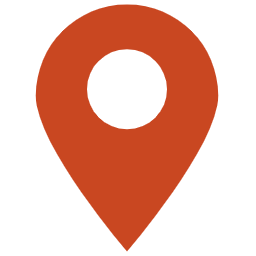
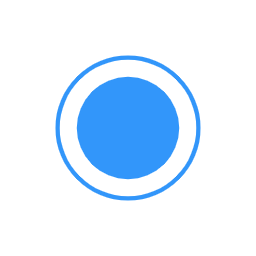
新增实时定位功能， 优化界面

diff --git a/pages/map/map.js b/pages/map/map.js
@@ -2,7 +2,6 @@
 import map from '@data/map';
 import media from '@data/media';
 
-// 引入腾讯地图SDK核心类 
 const QQMapWX = require('@libs/qqmap-wx-jssdk.min');
 const qqmapsdk = new QQMapWX({
   key: map.mapKey, 
@@ -10,62 +9,93 @@ const qqmapsdk = new QQMapWX({
 
 Page({
   data: {
-    // 1. 基础定位：优先读取配置文件中的辽石化坐标， xx
     latitude: map.latitude,
     longitude: map.longitude,
     scale: map.scale,
 
-    // 2. 地标分类属性
     category: 0,
     all_site_data: map.site_data,
     site_data: [],
     Marker3_Activated: media.Marker3_Activated,
 
-    // 3. 单车属性
     bikeIcon: "/images/bike.png", 
     bikeMarkers: [], 
 
-    // 4. 地图显示集合
     markers: [],
     polyline: [],
     
-    // 5. 导航起点与终点
     start: { name: '当前位置', latitude: '', longitude: '' },
     end: { name: '', latitude: '', longitude: '' },
 
-    // 6. 设置手动模拟的经纬度变量
-    myMockLat: 41.857358, 
-    myMockLng: 123.788281,
+    // 【优化点 1】我的实时定位标记底稿
+    myPosIcon: "/images/my_pos.png", 
+    myLocationMarker: null, 
+
+    myMockLat: map.latitude, // 初始为配置坐标
+    myMockLng: map.longitude,
   },
 
   onLoad(options) {
-    // 确保启动时即使网络报错，基础数据也能加载
     this.initStaticSites();
     this.loadBikesFromServer(); 
-    // 延迟500ms确保前面的渲染不冲突
-    setTimeout(() => {
-      this.initUserLocation();
-    }, 500);
-  },
-
-  // --- 在这里插入 getMyMarker 函数 ---
-  getMyMarker() {
-    return {
-      id: 9999,
-      latitude: this.data.myMockLat,
-      longitude: this.data.myMockLng,
-      iconPath: '/images/my_pos.png', 
-      width: 32,
-      height: 32,
-      anchor: { x: 0.5, y: 0.5 },
-      zIndex: 1000,
-      
-    };
+    this.startLocationUpdate();
   },
 
   /**
-   * 初始化校园地标（图书馆、食堂等）
+   * 开启微信实时位置监听
    */
+  startLocationUpdate() {
+    const _this = this;
+    wx.startLocationUpdate({
+      success: () => {
+        console.log("实时定位开启成功");
+        wx.onLocationChange((location) => {
+          // 仅处理位置更新与 Marker 同步
+          _this.handleLocationChange(location);
+
+          // 强制视角跟随（解决 Sensor 调节后视角不动的问题）
+          const mapCtx = wx.createMapContext('map');
+          mapCtx.moveToLocation({
+            latitude: location.latitude,
+            longitude: location.longitude
+          });
+        });
+      },
+      fail: (err) => {
+        console.error("开启实时定位失败", err);
+      }
+    });
+  },
+
+  /**
+   * 【优化点 2】统一处理位置变动，并确保持久化显示
+   */
+  handleLocationChange(res) {
+    // 1. 更新最新的定位标记底稿
+    const newMyMarker = {
+      id: 9999,
+      latitude: res.latitude,
+      longitude: res.longitude,
+      iconPath: this.data.myPosIcon,
+      width: 35,
+      height: 35,
+      zIndex: 1001,
+      anchor: { x: 0.5, y: 0.5 }
+    };
+
+    // 2. 提取当前 markers 中除了定位点以外的其他点（地标和单车）
+    let otherMarkers = this.data.markers.filter(m => m.id !== 9999);
+
+    this.setData({
+      myMockLat: res.latitude,
+      myMockLng: res.longitude,
+      'start.latitude': res.latitude,
+      'start.longitude': res.longitude,
+      myLocationMarker: newMyMarker, // 保存底稿
+      markers: [...otherMarkers, newMyMarker] // 合并渲染
+    });
+  },
+
   initStaticSites() {
     const all_site_data = this.data.all_site_data;
     if (all_site_data && all_site_data.length > 0) {
@@ -73,14 +103,13 @@ Page({
       this.setData({
         site_data: campus.category_list || []
       }, () => {
-        // 初始显示第一个分类
         this.changeCategory({ currentTarget: { id: 0 } });
       });
     }
   },
 
   /**
-   * 切换分类并自动跳转视角
+   * 【优化点 3】切换地址栏分类时，带上保存好的定位底稿
    */
   changeCategory(e) {
     const categoryIndex = parseInt(e.currentTarget.id);
@@ -88,8 +117,6 @@ Page({
     if (!siteData) return;
 
     const site_list = siteData.list || [];
-    
-    // 生成地标 Markers (ID从100开始)
     let staticMarkers = site_list.map((site, index) => ({
       id: index + 100, 
       latitude: site.latitude,
@@ -97,28 +124,25 @@ Page({
       iconPath: this.data.Marker3_Activated,
       width: 30,
       height: 30,
-      callout: {
-        content: " " + site.name + " ",
-        display: 'ALWAYS',
-        padding: 5,
-        borderRadius: 10
-      }
+      callout: { content: " " + site.name + " ", display: 'ALWAYS', padding: 5, borderRadius: 10 }
     }));
+
+    // 合并时，显式检查并加入 myLocationMarker
+    let finalMarkers = [...staticMarkers, ...this.data.bikeMarkers];
+    if (this.data.myLocationMarker) {
+      finalMarkers.push(this.data.myLocationMarker);
+    }
 
     this.setData({
       category: categoryIndex,
-      markers: [...staticMarkers, ...this.data.bikeMarkers, this.getMyMarker()]
+      markers: finalMarkers
     }, () => {
-      // 只有当地标存在时才执行视角缩放
       if (staticMarkers.length > 0) {
         this.includePoints(staticMarkers);
       }
     });
   },
 
-  /**
-   * 从后端加载单车
-   */
   loadBikesFromServer() {
     const _this = this;
     wx.request({
@@ -133,104 +157,46 @@ Page({
             iconPath: _this.data.bikeIcon,
             width: 35,
             height: 35,
-            zIndex: 999,              // 确保单车图层在最上方
-            callout: {
-              content: " 扫码用车 ",
-              display: 'BYCLICK'
-            }
+            zIndex: 999,
+            callout: { content: " 扫码用车 ", display: 'BYCLICK' }
           }));
+
+          // 加载单车后，同样要合并当前的定位点
+          let otherMarkers = _this.data.markers.filter(m => m.id >= 100); 
+          let finalMarkers = [...otherMarkers, ...bikes];
+          if (_this.data.myLocationMarker) {
+            finalMarkers.push(_this.data.myLocationMarker);
+          }
+
           _this.setData({ 
             bikeMarkers: bikes,
-            markers: [..._this.data.markers, ...bikes]
+            markers: finalMarkers
           });
         }
-      },
-      fail(err) {
-        console.warn("后端单车数据获取失败，仅显示静态地标");
       }
     });
   },
 
-  /**
-   * 自动缩放视野
-   */
   includePoints(points) {
     const mapCtx = wx.createMapContext('map');
-    
-    // 如果只有一个点，我们不使用 includePoints，而是直接平移并设置一个舒适的缩放值
     if (points.length === 1) {
       this.setData({
         latitude: points[0].latitude,
         longitude: points[0].longitude,
-        scale: 17 // 17 是一个比较舒适的近距离观察比例，不会像 20 那么夸张
+        scale: 17
       });
     } else {
-      // 如果有多个点（如“学院”分类），则使用自动缩放
       mapCtx.includePoints({
-        padding: [150, 100, 100, 100], // 增加边距，让视野更开阔
-        points: points,
-        success: () => {
-          // 这里的回调可以确保在缩放完成后执行
-          console.log("多点视野跳转成功");
-        }
+        padding: [150, 100, 100, 100],
+        points: points
       });
     }
   },
-   /**
-   * 用户坐标模拟
-   */
-  initUserLocation() {
-    // wx.getLocation({
-    //   type: 'gcj02',
-    //   success: (res) => {
-    //     this.setData({
-    //       'start.latitude': res.latitude,
-    //       'start.longitude': res.longitude
-    //     });
-    //   }
-    // });
-    this.setData({
-      'start.latitude': this.data.myMockLat,
-      'start.longitude': this.data.myMockLng
-    });
-    
-    // 初始化一个代表“我”的 Marker，让地图上能看到小蓝点
-  // 2. 初始化 Marker（彻底删除 callout 属性）
-    const myMarker = {
-      id: 9999,
-      latitude: this.data.myMockLat,
-      longitude: this.data.myMockLng,
-      iconPath: '/images/my_pos.png', 
-      width: 32,
-      height: 32,
-      anchor: { x: 0.5, y: 0.5 },
-      zIndex: 1000, // 赋予最高层级，确保不被地标压住
 
-      callout: {
-        content: '我的位置',
-        display: 'ALWAYS',
-        padding: 4,          // 缩小内边距，让边框贴近文字
-        borderRadius: 12,    // 适中的圆角，看起来既圆润又不突兀
-        fontSize: 12,        // 减小字号，显得更精致
-        color: '#000000',
-        bgColor: '#ffffff',  // 建议改用蓝色背景配白字，视觉上体积感更小
-        textAlign: 'center',
-        borderWidth: 0
-      }
-
-    };
-
-  // 将“我”的标记加入 markers 数组
-  this.setData({
-    markers: [...this.data.markers, myMarker]
-  });
-  },
-
-  /**
-   * 点击交互：区分单车和地标
-   */
   markertap(e) {
     const markerId = e.markerId;
+    if (markerId === 9999) return; 
+
     if (markerId < 100) {
       wx.showModal({
         title: '预约单车',
@@ -283,17 +249,20 @@ Page({
 
   restore() {
     const mapCtx = wx.createMapContext('map');
-    mapCtx.moveToLocation({
-      latitude: this.data.myMockLat,
-      longitude: this.data.myMockLng,
-      success: () => {
-        wx.showToast({
-          title: '已回到我的位置',
-          icon: 'none',
-          duration: 1000
-        });
-      }
-    });
-    this.loadBikesFromServer();
+    if (this.data.myMockLat && this.data.myMockLng)
+    {
+      mapCtx.moveToLocation({
+          latitude: this.data.myMockLat,
+          longitude: this.data.myMockLng,
+            success: () => {
+              wx.showToast({ title: '已回到我的位置', icon: 'none' });
+              this.setData({
+                latitude: this.data.myMockLat,
+                longitude: this.data.myMockLng
+              });
+            }
+          });
+    }
+    
   }
 });
